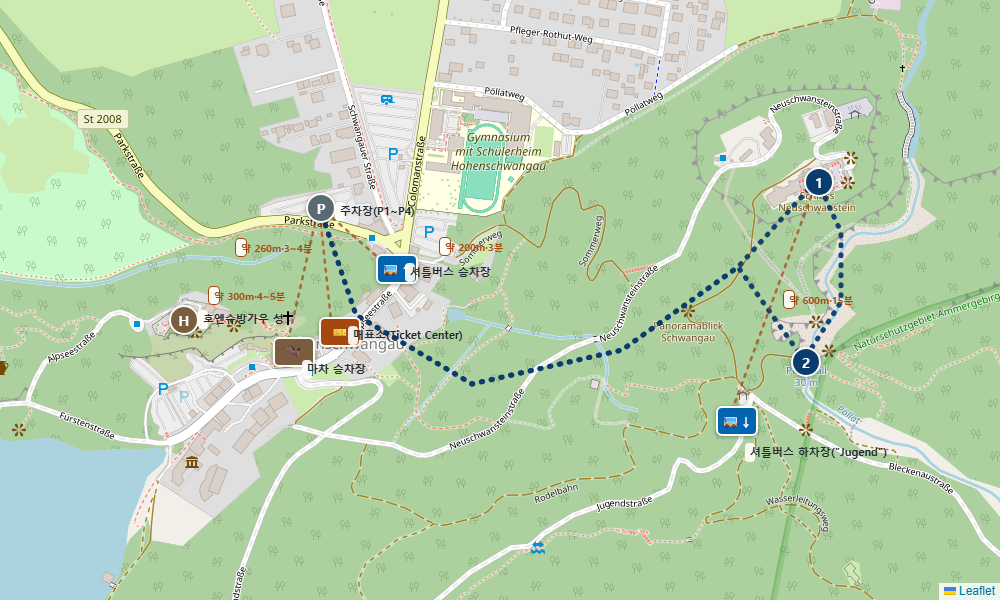
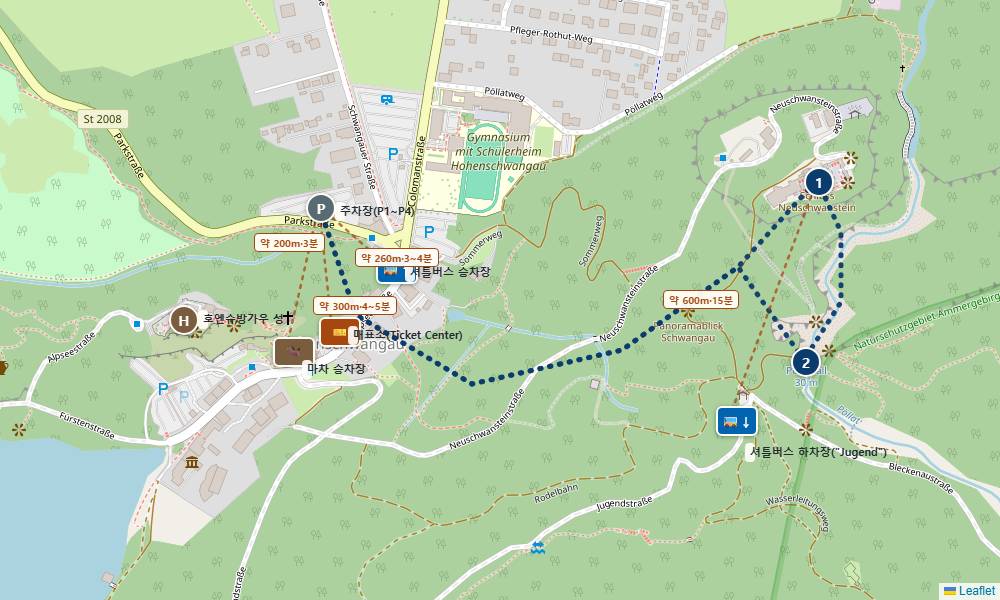
Rebuild Neuschwanstein connector labels, add Google Maps links to legend
The distance/time labels (parking<->ticket center/shuttle stop/
carriage stop, shuttle drop-off<->castle) kept getting clipped because
they used L.divIcon with iconSize:[0,0], which has the same
text-clipping bug found earlier on Munich's Pinakothek callout.
Rebuilt them using the same fix: a plain div appended directly to the
map container at a computed pixel position, instead of a Leaflet icon.

Also added Google Maps links to the ticket center, shuttle boarding/
alighting points, and carriage stop in the legend text below the map,
which previously only appeared as unlinked icons.

diff --git a/germany-roadtrip-planner.html b/germany-roadtrip-planner.html
@@ -2179,7 +2179,7 @@ document.addEventListener('DOMContentLoaded', function(){
       <a class="walk-map-link" href="https://www.google.com/maps/dir/?api=1&travelmode=walking&origin=47.5543,10.7360&destination=47.5550,10.7494&waypoints=47.5576,10.7497" target="_blank" rel="noopener">📍 Google 지도로 도보 코스 보기(링크는 편도만 표시, 왕복은 같은 길로 되짚기) · 총 약 4.4km · 도보 약 1시간 27분(오르막 40분+12분, 내리막 약 35분)</a>
       <div class="route-snapshot">
         <div class="route-snapshot-media">
-          <img src="images/routes/neuschwanstein.png?v=4" alt="노이슈반슈타인 성 도보 코스 지도 스냅샷 — 매표소·셔틀버스 승하차장·마차 승차장 및 거리 표시" loading="lazy">
+          <img src="images/routes/neuschwanstein.png?v=5" alt="노이슈반슈타인 성 도보 코스 지도 스냅샷 — 매표소·셔틀버스 승하차장·마차 승차장 및 거리 표시" loading="lazy">
         </div>
         <ol class="route-steps">
         <li class="rs-p"><span class="rs-name">주차장(P1~P4)</span></li>
@@ -2188,7 +2188,7 @@ document.addEventListener('DOMContentLoaded', function(){
         <li class="rs-p"><span class="rs-name">주차장(왔던 길 그대로 하산 · 호엔슈방가우 성 외관 경유)</span><span class="rs-seg">(2.2km, 내리막 약 35분)</span></li>
         </ol>
       </div>
-      <p class="walk-map-note" style="font-size:0.78rem;">지도 범례 — 🎫 매표소(Ticket Center) · 🚌↑ 셔틀버스 승차장 · 🚌↓ 셔틀버스 하차장("Jugend") · 🐎 마차 승차장(Hotel Müller 맞은편) · H 호엔슈방가우 성 (주차장·성 기준 도보 거리·시간은 지도 위 점선 표시 참고)</p>
+      <p class="walk-map-note" style="font-size:0.78rem;">지도 범례 — 🎫 <a href="https://www.google.com/maps/search/?api=1&query=47.5553897,10.7392857" target="_blank" rel="noopener">매표소(Ticket Center)</a> · 🚌↑ <a href="https://www.google.com/maps/search/?api=1&query=47.5563,10.7405" target="_blank" rel="noopener">셔틀버스 승차장</a> · 🚌↓ <a href="https://www.google.com/maps/search/?api=1&query=47.5541,10.7478" target="_blank" rel="noopener">셔틀버스 하차장("Jugend")</a> · 🐎 <a href="https://www.google.com/maps/search/?api=1&query=47.5551,10.7383" target="_blank" rel="noopener">마차 승차장</a>(Hotel Müller 맞은편) · H 호엔슈방가우 성 (주차장·성 기준 도보 거리·시간은 지도 위 점선 표시 참고)</p>
       <div class="landmark-grid">
       <div class="landmark-card wide">
         <img src="https://upload.wikimedia.org/wikipedia/commons/thumb/f/f8/Schloss_Neuschwanstein_2013.jpg/500px-Schloss_Neuschwanstein_2013.jpg" alt="노이슈반슈타인 성(Schloss Neuschwanstein)" loading="lazy">

diff --git a/index.html b/index.html
@@ -2179,7 +2179,7 @@ document.addEventListener('DOMContentLoaded', function(){
       <a class="walk-map-link" href="https://www.google.com/maps/dir/?api=1&travelmode=walking&origin=47.5543,10.7360&destination=47.5550,10.7494&waypoints=47.5576,10.7497" target="_blank" rel="noopener">📍 Google 지도로 도보 코스 보기(링크는 편도만 표시, 왕복은 같은 길로 되짚기) · 총 약 4.4km · 도보 약 1시간 27분(오르막 40분+12분, 내리막 약 35분)</a>
       <div class="route-snapshot">
         <div class="route-snapshot-media">
-          <img src="images/routes/neuschwanstein.png?v=4" alt="노이슈반슈타인 성 도보 코스 지도 스냅샷 — 매표소·셔틀버스 승하차장·마차 승차장 및 거리 표시" loading="lazy">
+          <img src="images/routes/neuschwanstein.png?v=5" alt="노이슈반슈타인 성 도보 코스 지도 스냅샷 — 매표소·셔틀버스 승하차장·마차 승차장 및 거리 표시" loading="lazy">
         </div>
         <ol class="route-steps">
         <li class="rs-p"><span class="rs-name">주차장(P1~P4)</span></li>
@@ -2188,7 +2188,7 @@ document.addEventListener('DOMContentLoaded', function(){
         <li class="rs-p"><span class="rs-name">주차장(왔던 길 그대로 하산 · 호엔슈방가우 성 외관 경유)</span><span class="rs-seg">(2.2km, 내리막 약 35분)</span></li>
         </ol>
       </div>
-      <p class="walk-map-note" style="font-size:0.78rem;">지도 범례 — 🎫 매표소(Ticket Center) · 🚌↑ 셔틀버스 승차장 · 🚌↓ 셔틀버스 하차장("Jugend") · 🐎 마차 승차장(Hotel Müller 맞은편) · H 호엔슈방가우 성 (주차장·성 기준 도보 거리·시간은 지도 위 점선 표시 참고)</p>
+      <p class="walk-map-note" style="font-size:0.78rem;">지도 범례 — 🎫 <a href="https://www.google.com/maps/search/?api=1&query=47.5553897,10.7392857" target="_blank" rel="noopener">매표소(Ticket Center)</a> · 🚌↑ <a href="https://www.google.com/maps/search/?api=1&query=47.5563,10.7405" target="_blank" rel="noopener">셔틀버스 승차장</a> · 🚌↓ <a href="https://www.google.com/maps/search/?api=1&query=47.5541,10.7478" target="_blank" rel="noopener">셔틀버스 하차장("Jugend")</a> · 🐎 <a href="https://www.google.com/maps/search/?api=1&query=47.5551,10.7383" target="_blank" rel="noopener">마차 승차장</a>(Hotel Müller 맞은편) · H 호엔슈방가우 성 (주차장·성 기준 도보 거리·시간은 지도 위 점선 표시 참고)</p>
       <div class="landmark-grid">
       <div class="landmark-card wide">
         <img src="https://upload.wikimedia.org/wikipedia/commons/thumb/f/f8/Schloss_Neuschwanstein_2013.jpg/500px-Schloss_Neuschwanstein_2013.jpg" alt="노이슈반슈타인 성(Schloss Neuschwanstein)" loading="lazy">
